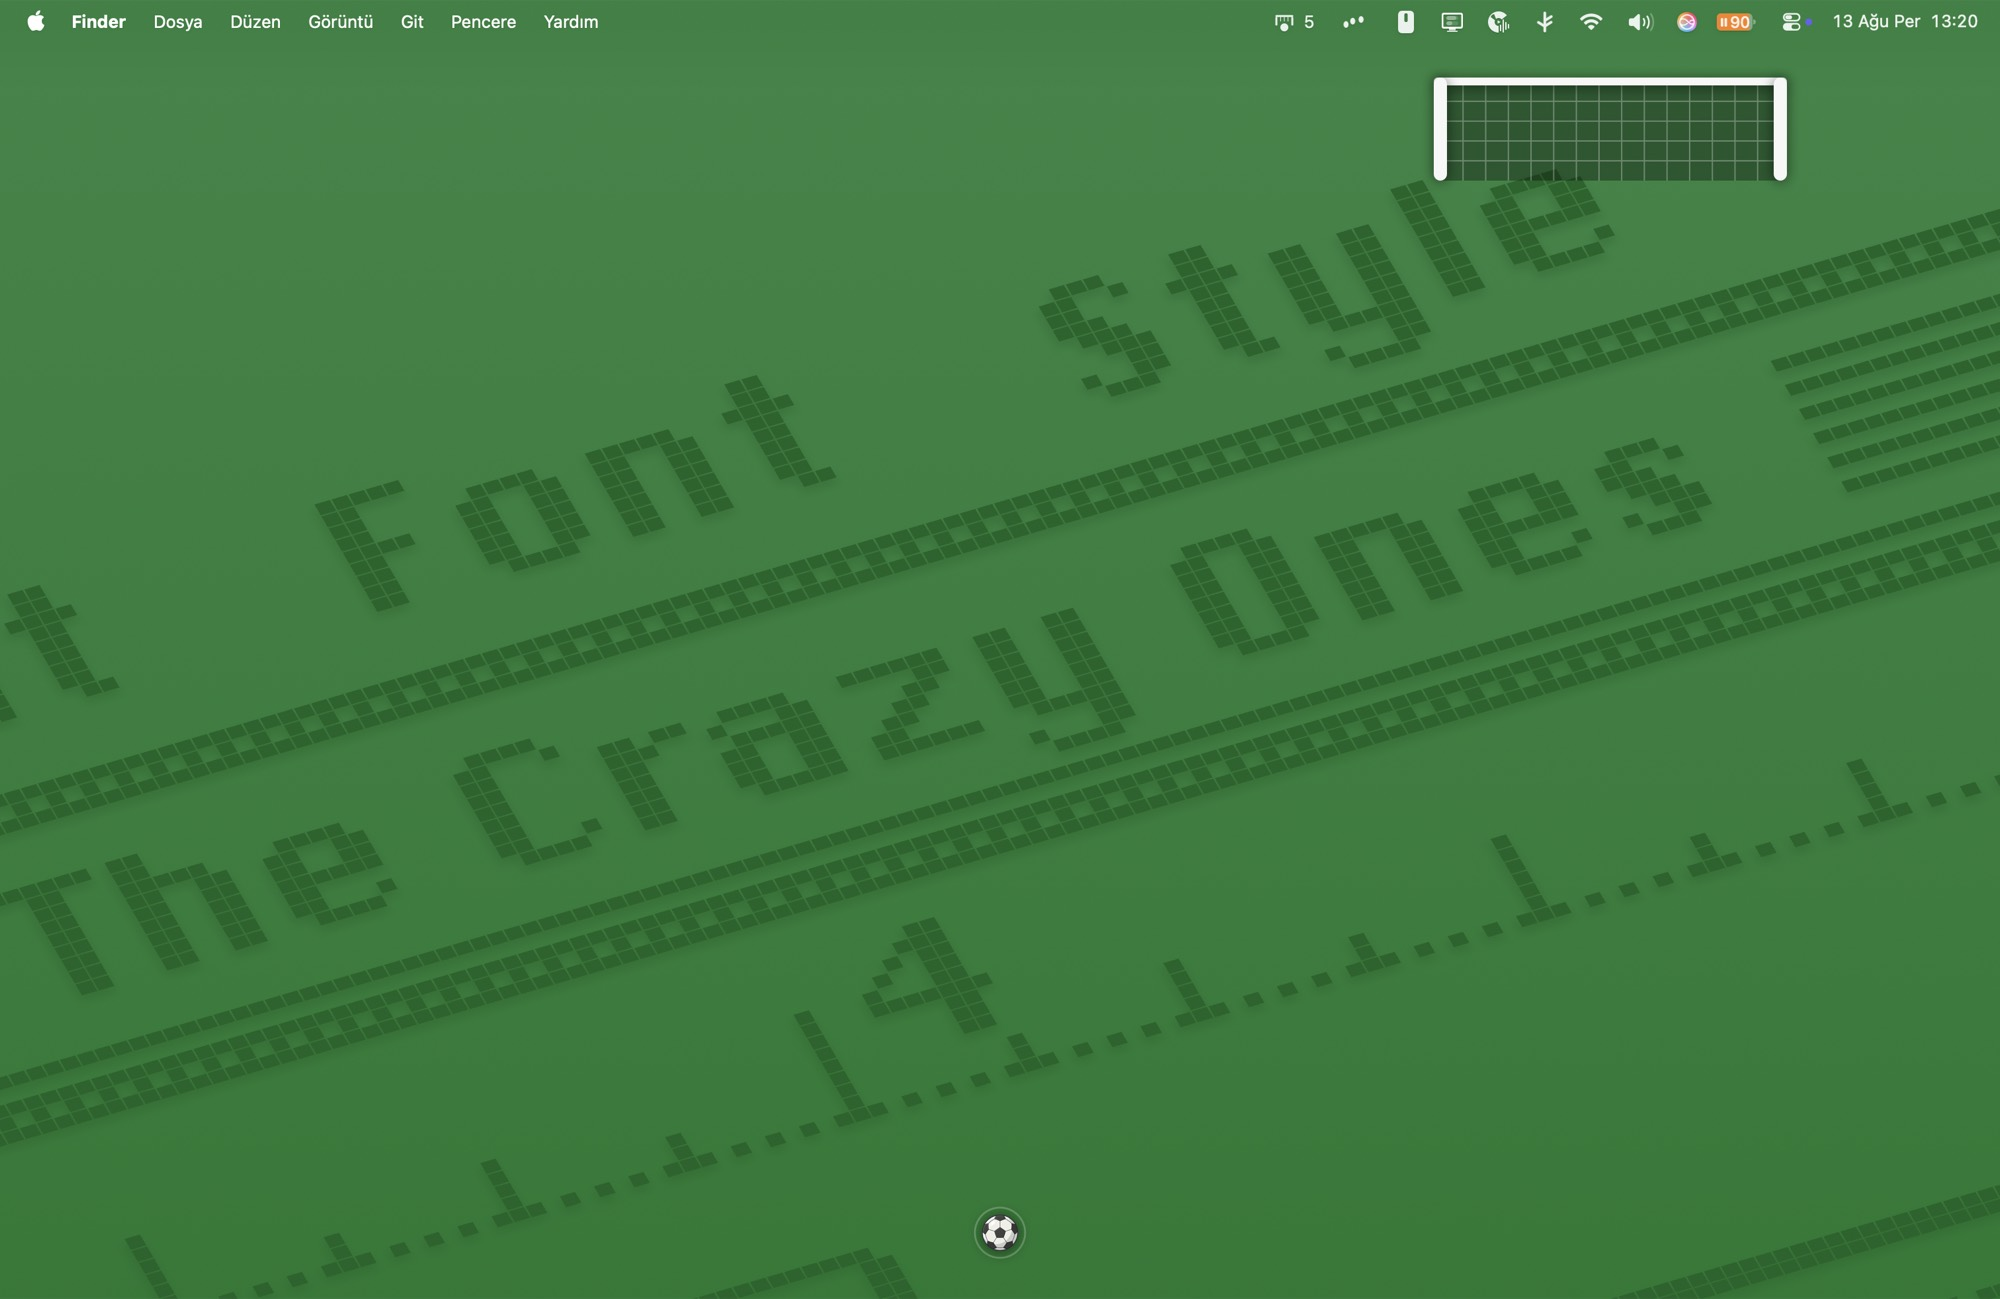
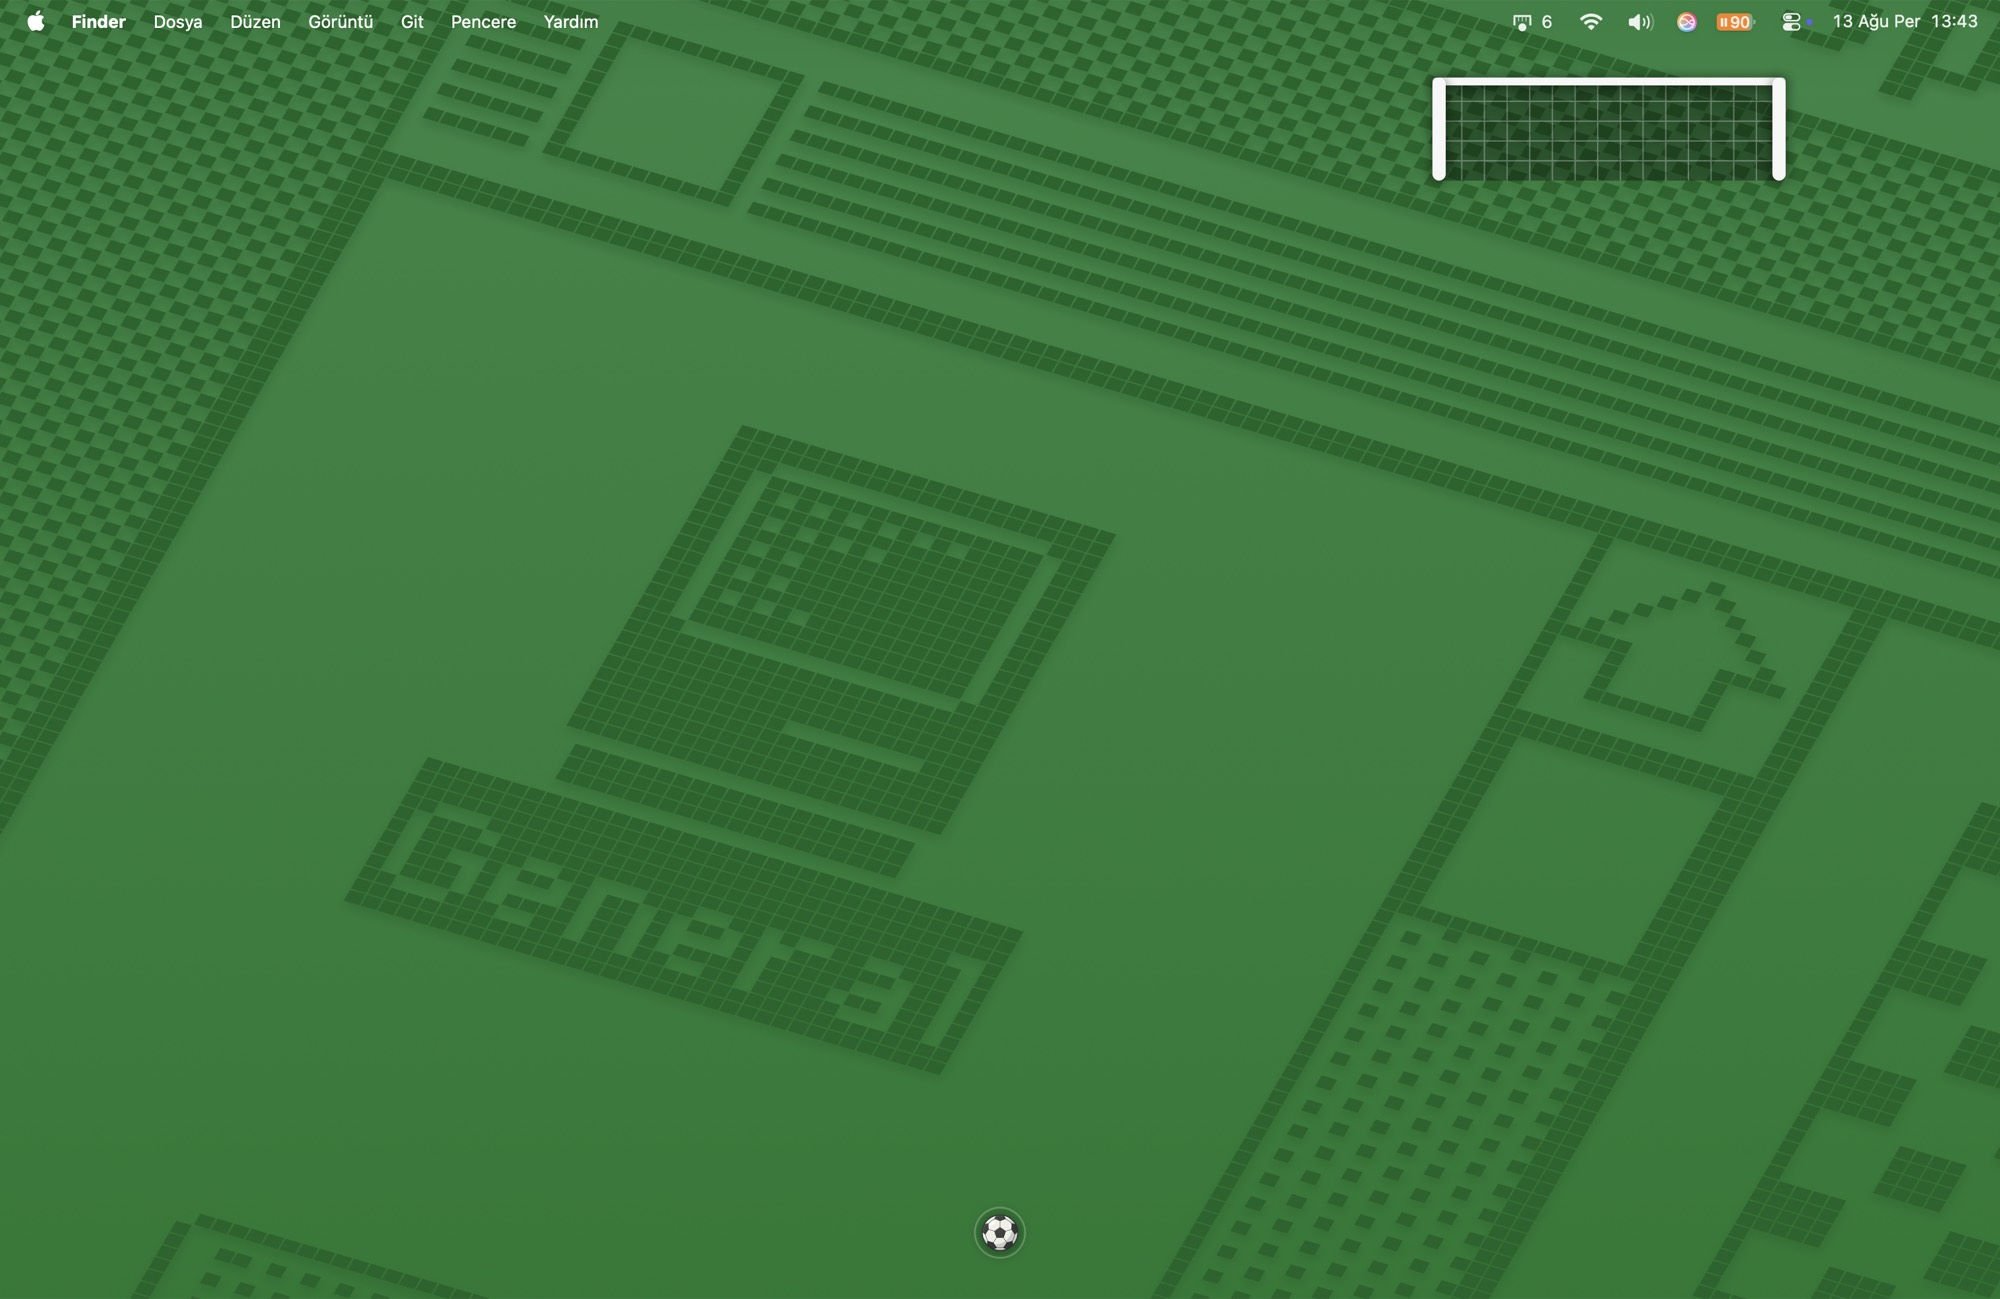
Site: sync from the app repository (bf71e8c)

diff --git a/index.html b/index.html
@@ -142,7 +142,7 @@
       score, and everything else — new ball, reset, mute, volume, theme, always on top, open at login —
       is one click away in its menu.
     </p>
-    <img class="menubar-shot" src="img/menubar-shot.png" alt="A slice of the real macOS menu bar: the Kick Kick icon carrying a score of 5, sitting among the other menu-bar items alongside the battery and the clock.">
+    <img class="menubar-shot" src="img/menubar-shot.png" alt="A slice of the real macOS menu bar: the Kick Kick icon carrying a score of 6, sitting among the other menu-bar items alongside the battery and the clock.">
 
     <ul class="points">
       <li>
